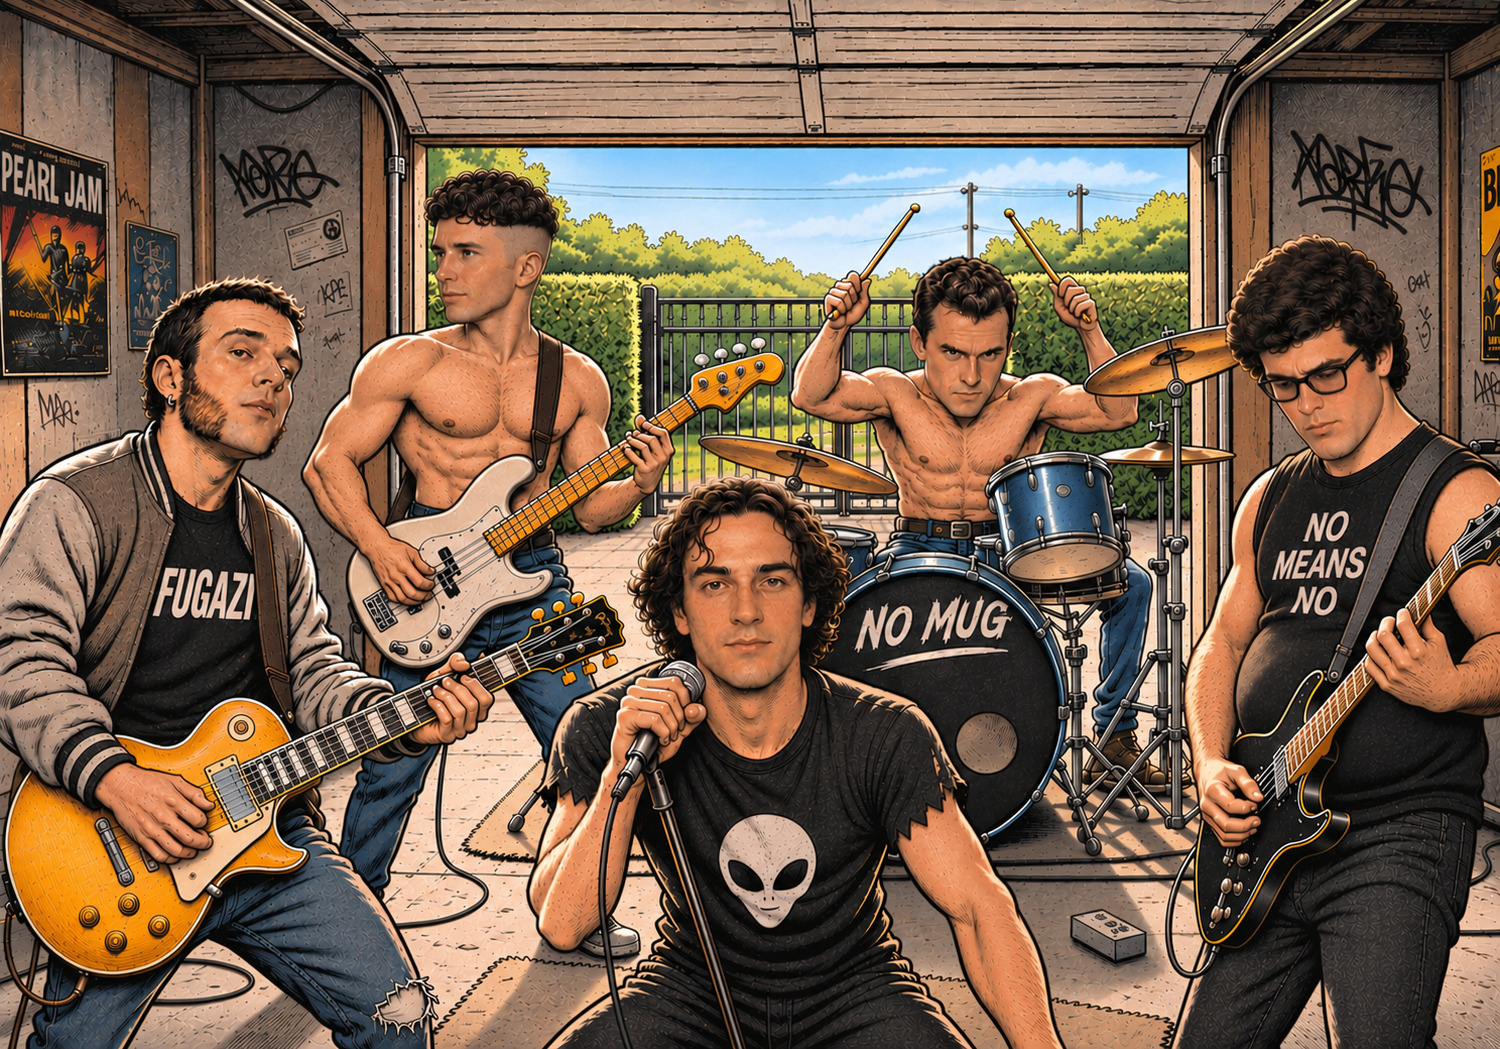
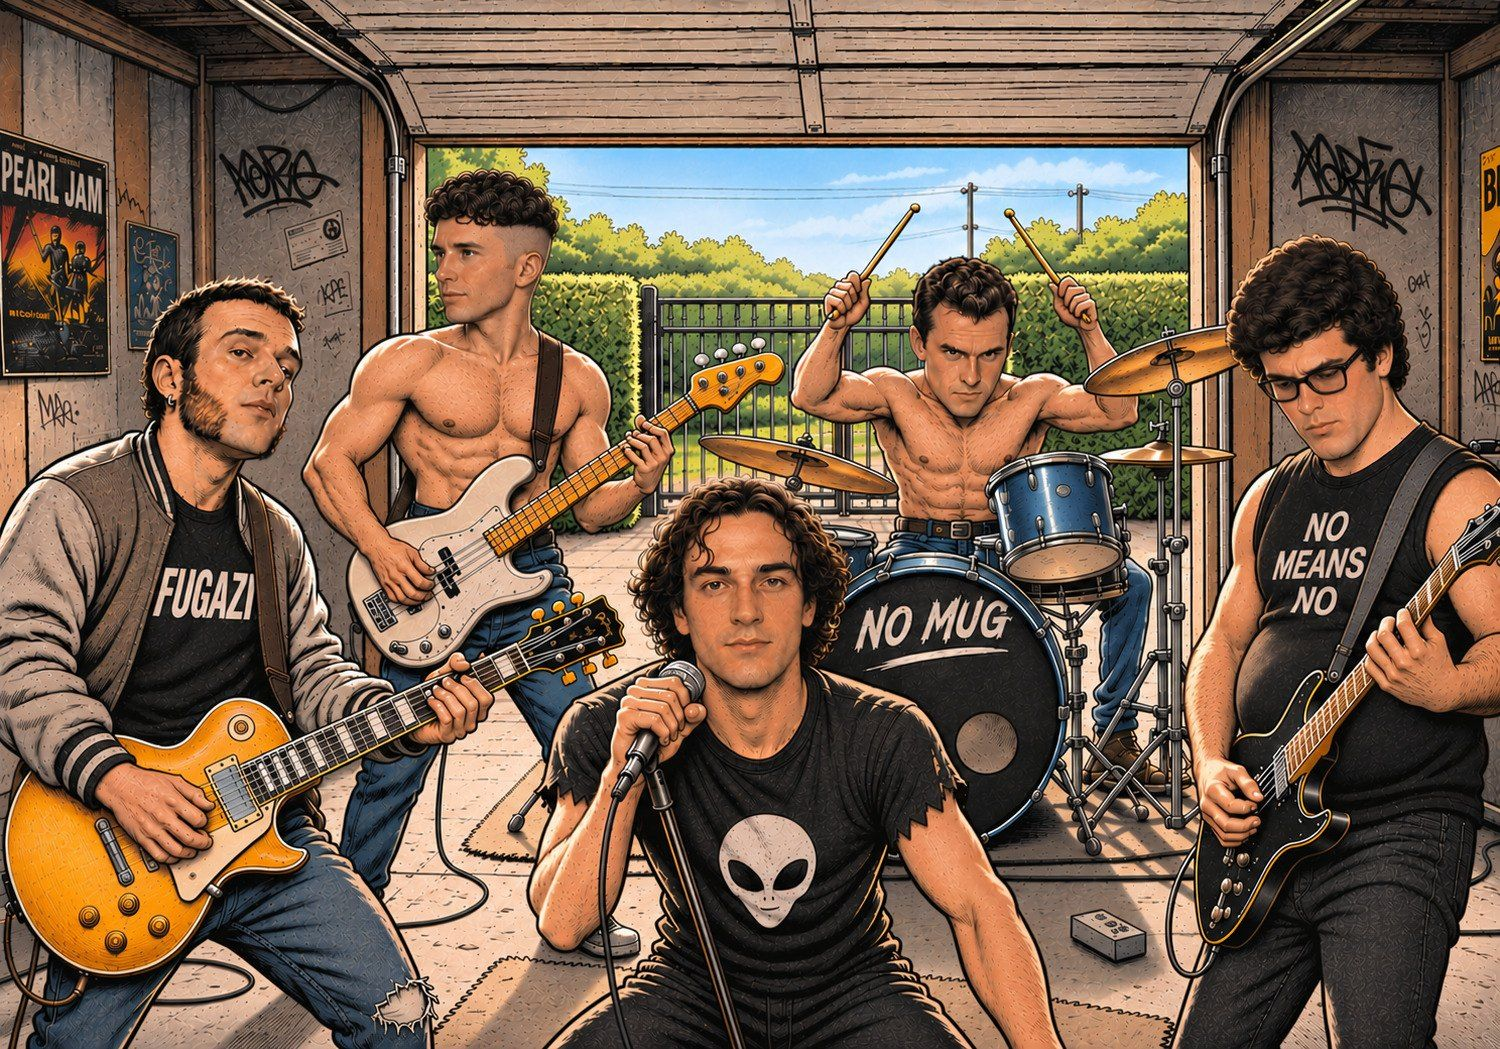
Histoire : le dessin de la rubrique 1993 (No Mug, premier concert) est remplace par la photo du groupe (Nomugband.jpg), image optimisee ; version EN alignee

diff --git a/histoire.html b/histoire.html
@@ -494,7 +494,7 @@
 
             <div class="media-histoire centre">
                 <figure class="large">
-                    <img src="images/rockerlst.jpg" alt="Répète dans le garage" loading="lazy" data-zoom>
+                    <img src="images/Nomugband.jpg" alt="No Mug en répétition dans le garage : chant, deux guitares, basse et batterie" loading="lazy" data-zoom>
                     <figcaption><span class="media-date">1993</span> &mdash; Répète dans le garage.</figcaption>
                 </figure>
             </div>

diff --git a/en/histoire.html b/en/histoire.html
@@ -497,7 +497,7 @@
 
             <div class="media-histoire centre">
                 <figure class="large">
-                    <img src="../images/rockerlst.jpg" alt="Rehearsal in the garage" loading="lazy" data-zoom>
+                    <img src="../images/Nomugband.jpg" alt="No Mug rehearsing in the garage: singer, two guitars, bass and drums" loading="lazy" data-zoom>
                     <figcaption><span class="media-date">1993</span> &mdash; Rehearsal in the garage.</figcaption>
                 </figure>
             </div>
